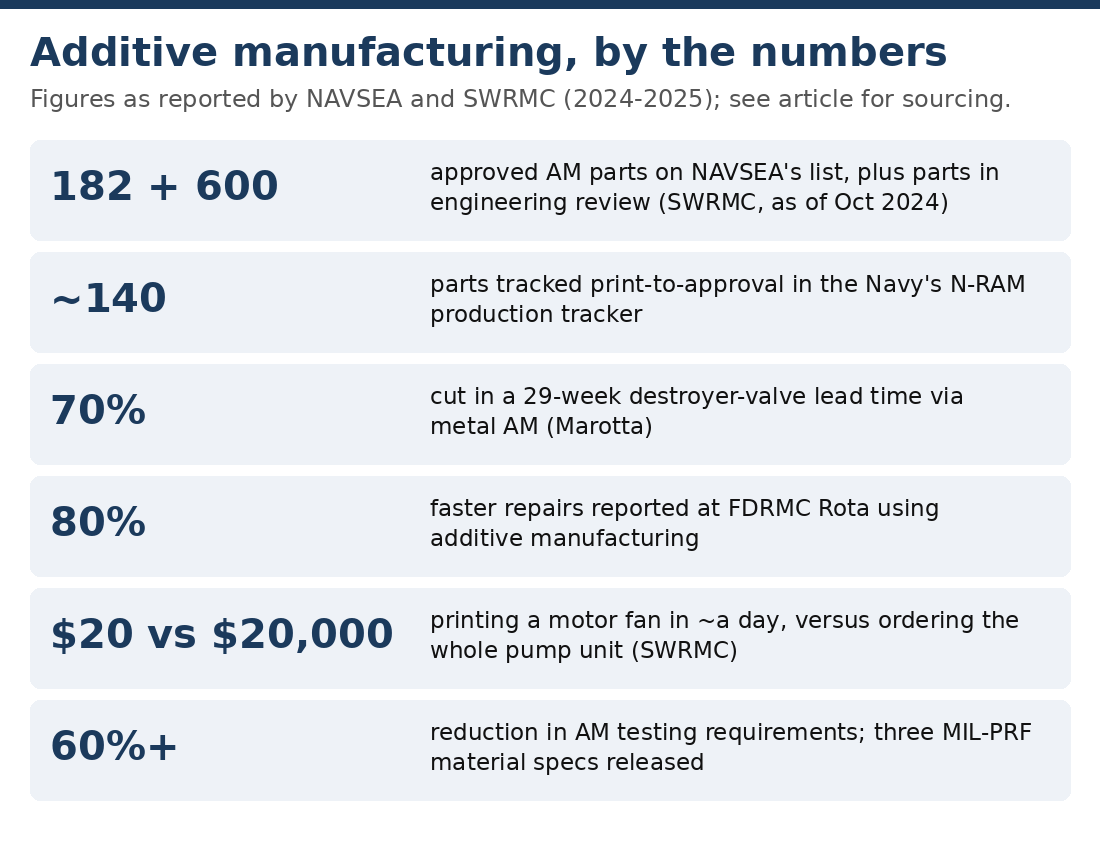
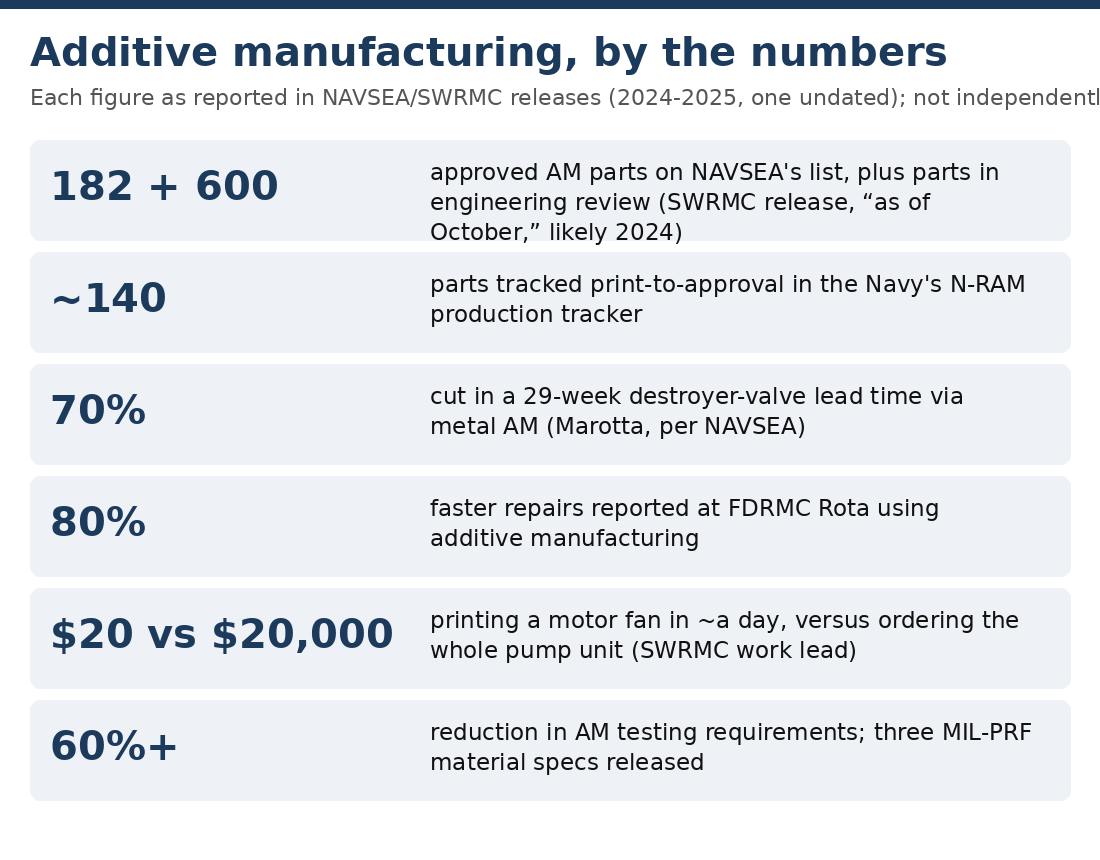
Waterfront Brief w29: exact source links + SWRMC correction

diff --git a/content/projects/waterfront-brief/2026-w29.md b/content/projects/waterfront-brief/2026-w29.md
@@ -34,7 +34,7 @@ protect when dry docks are the constraint.
 **Bottom line:** Watch Rosyth as a cadence benchmark: the win is not one docking, it is
 the same yard turning the same class on schedule, four times running.
 
-*Sources: [Babcock via Naval News, Apr 2026](https://www.navalnews.com/)*
+*Sources: [Babcock via Naval News, Apr 2026](https://www.navalnews.com/naval-news/2026/04/babcock-completes-major-maintenance-programme-supporting-uk-carrier-capability/)*
 
 ### New dock in the Indian Ocean, first customer: a navy
 
@@ -52,7 +52,7 @@ the western Pacific.
 **Bottom line:** Forward dock capacity does not have to mean a decade of MILCON; a
 refurbished floating dock with a committed naval customer stood up in two years.
 
-*Sources: [Drydock Magazine, Apr 2026](https://drydockmagazine.com/)*
+*Sources: [Drydock Magazine, Apr 2026](https://drydockmagazine.com/reunion-islands-new-ship-repair-capability/)*
 
 ### SIOP's waterfront push: what the money is buying
 
@@ -71,7 +71,7 @@ transferable planning products, and a real basis for cross-yard workload sharing
 **Bottom line:** As SIOP equipment lands, push for the cross-yard commonality benefits
 (quals, procedures, spares) rather than treating each delivery as a local upgrade.
 
-*Sources: [NAVSEA, May 2024](https://www.navsea.navy.mil/); [NAVSEA Shipyards page](https://www.navsea.navy.mil/Home/Shipyards/)*
+*Sources: [NAVSEA interview with PEO Edelson, May 2024](https://www.navsea.navy.mil/Media/News/Article-View/Article/3783726/head-of-navys-siop-effort-says-upgrading-nations-shipyards-for-the-future-will/); [NAVSEA Shipyards page](https://www.navsea.navy.mil/Home/Shipyards/)*
 
 ### Commercial pace note
 
@@ -84,7 +84,7 @@ capital ones.
 **Bottom line:** The 14-versus-18-day redelivery is a process story worth stealing even
 where the capital plant can't be copied.
 
-*Sources: [Drydock Magazine, Nov 2025](https://drydockmagazine.com/)*
+*Sources: [Drydock Magazine, Nov 2025](https://drydockmagazine.com/ship-repair-performance-in-the-middle-east/)*
 
 ## Maintenance Engineering & Technologies
 
@@ -101,8 +101,9 @@ cutting some repair times by 80 percent; NAVSEA also reports a collaboration wit
 academia cut additive testing requirements by more than 60 percent, with three
 material specifications released (MIL-PRF-32802, -32803, -32804).
 
-![Diagram: additive manufacturing by the numbers. 182 approved parts on NAVSEA's list plus 600 in engineering review (SWRMC, as of October 2024). About 140 parts tracked print-to-approval in the Navy's N-RAM production tracker. A 70 percent cut in a 29-week destroyer valve lead time via metal AM (Marotta). 80 percent faster repairs reported at FDRMC Rota. Twenty dollars to print a motor fan versus twenty thousand dollars to order the whole pump unit (SWRMC). Over 60 percent reduction in AM testing requirements, with three MIL-PRF material specs released.](img/am-by-the-numbers.png)
-*Diagram: the additive pipeline in six reported figures (NAVSEA and SWRMC, 2024-2025).*
+![Diagram: additive manufacturing by the numbers. 182 approved parts on NAVSEA's list plus 600 in engineering review (per an undated SWRMC release, "as of October," likely 2024). About 140 parts tracked print-to-approval in the Navy's N-RAM production tracker. A 70 percent cut in a 29-week destroyer valve lead time via metal AM (Marotta). 80 percent faster repairs reported at FDRMC Rota. Twenty dollars to print a motor fan versus twenty thousand dollars to order the whole pump unit (SWRMC). Over 60 percent reduction in AM testing requirements, with three MIL-PRF material specs released.](img/am-by-the-numbers.png)
+*Diagram: the additive pipeline in six figures, each as reported in NAVSEA and SWRMC
+releases (2024-2025, one undated), none independently audited.*
 
 Assessment: the strategic change is not any single part, it is that parts are now moving
 through an approval system with specs, trackers, and a supply-system endpoint. The
@@ -114,7 +115,7 @@ components, where a print becomes the alternate procurement path of record.
 **Bottom line:** Stop evaluating AM part by part; the management question for 2026 is
 whether your shop's candidates are in the approval pipeline at all.
 
-*Sources: [NAVSEA 2025 review](https://www.navsea.navy.mil/); [SWRMC via NAVSEA](https://www.navsea.navy.mil/); [N-RAM via NAVSEA](https://www.navsea.navy.mil/)*
+*Sources: [NAVSEA 2025 3D-printing review](https://www.navsea.navy.mil/Media/News/Article-View/Article/4384611/navy-expands-3d-printing-to-frontline-fleet-operations-in-2025/); [SWRMC release](https://www.navsea.navy.mil/Media/News/Article-View/Article/4054421/swrmcs-additive-printing-provides-innovative-solutions-to-meet-fleet-needs/); [NAVSEA on N-RAM](https://www.navsea.navy.mil/Media/News/Article-View/Article/4368368/inside-n-ram-navys-hub-for-additive-manufacturing-information/)*
 
 ### The unglamorous infrastructure: N-RAM and the approved-parts list
 
@@ -122,18 +123,21 @@ FACT: NAVSEA describes N-RAM (Navy Resources for Additive Manufacturing) as a Sh
 hub centralizing additive specs, standards, and policy, with a production tracker
 following roughly 140 candidate parts from requirement through print and approval,
 refreshed nightly, and more than 6,000 views since launch per NAVSEA deputy director Jay
-Ong. FACT: Southwest Regional Maintenance Center reported that as of October 2024 the
-NAVSEA approved-parts list held 182 items with about 600 more in engineering review, that
-it now prints metal parts weighing over a ton, and that printing a motor fan costs
-roughly $20 and a day versus up to $20,000 to order the parent pump unit. Assessment:
-this is what maturation actually looks like: a boring hub, a tracker, and a review queue.
-The 600-in-review number is the one to watch; if it converts at any reasonable rate, the
-approved list triples.
+Ong. FACT: an undated Southwest Regional Maintenance Center release (its internal references
+point to late 2024) says that "as of October" the NAVSEA approved-parts list held 182
+items with about 600 more in engineering review, that its newest equipment "allows for"
+printing metal parts weighing over a ton, and quotes its AM work lead putting a printed
+motor fan at roughly $20 and a day versus up to $20,000 to order the parent pump unit.
+Assessment: read those as the command's own claims in its own release: the over-a-ton
+line is a machine-capability statement, not a delivered-part count, and none of the
+figures are independently audited. Even discounted, the shape holds: a hub, a tracker,
+and a review queue is what maturation actually looks like, and the 600-in-review number
+is the one to watch.
 
 **Bottom line:** Have your engineering department check the N-RAM tracker before starting
 any local AM effort; duplicate candidates waste review capacity the queue can't spare.
 
-*Sources: [NAVSEA on N-RAM](https://www.navsea.navy.mil/); [SWRMC via NAVSEA, 2024](https://www.navsea.navy.mil/)*
+*Sources: [NAVSEA on N-RAM](https://www.navsea.navy.mil/Media/News/Article-View/Article/4368368/inside-n-ram-navys-hub-for-additive-manufacturing-information/); [SWRMC release](https://www.navsea.navy.mil/Media/News/Article-View/Article/4054421/swrmcs-additive-printing-provides-innovative-solutions-to-meet-fleet-needs/)*
 
 ### Discovery Team: 90,000 man-days sitting on the table
 
@@ -151,7 +155,7 @@ savings.
 **Bottom line:** If your yard has a standing irritant requirement, the Discovery Team
 channel now exists precisely for it; the queue rewards specific, costed submissions.
 
-*Sources: [NAVSEA, spring 2026](https://www.navsea.navy.mil/)*
+*Sources: [NAVSEA Discovery Team update, spring 2026](https://www.navsea.navy.mil/Media/News/Article-View/Article/4502829/navsea-discovery-team-advances-shipyard-maintenance-innovation/)*
 
 ### Commercial retrofit watch: shaft generators earning their keep
 
@@ -172,7 +176,7 @@ same economics.
 dockings; the commercial side is normalizing it at the 10-percent-savings scale, per
 vendor-reported trials.
 
-*Sources: [The Maritime Executive](https://www.maritime-executive.com/) (incl. two Berg vendor releases, so labeled)*
+*Sources: [Maersk-Seaspan program](https://maritime-executive.com/article/maersk-and-seaspan-launch-vessel-upgrade-program-to-improve-efficiency); Berg vendor releases via The Maritime Executive ([CMA CGM feeder](https://maritime-executive.com/corporate/berg-propulsion-contributes-to-substantial-efficiency-gains-for-cma-cgm), [Chemfleet](https://maritime-executive.com/corporate/chemfleet-adds-three-ships-to-berg-energy-efficiency-upgrade))*
 
 ### Research radar: ending the switchboard open-door inspection
 
@@ -195,7 +199,7 @@ shop (results paywalled, so no numbers claimed here).
 open-door switchboard inspections become the next maintenance requirement worth
 challenging through the Discovery Team.
 
-*Sources: [NSRP RA 2025-04 briefing](https://www.nsrp.org/); [arXiv 2408.04677](https://arxiv.org/abs/2408.04677); [arXiv 2408.04827](https://arxiv.org/abs/2408.04827); [Computers & Operations Research, 2025](https://www.sciencedirect.com/)*
+*Sources: [NSRP RA 2025-04 briefing (PDF)](https://www.nsrp.org/wp-content/uploads/2025/03/03-RSL_RA-2025-04_DTS_Install_NSRP_All-Panels.2025.02.12.pdf); [arXiv 2408.04677](https://arxiv.org/abs/2408.04677); [arXiv 2408.04827](https://arxiv.org/abs/2408.04827); [Computers & Operations Research, 2025](https://www.sciencedirect.com/science/article/abs/pii/S0305054825001789)*
 
 ## Operations Maintenance & Readiness
 
@@ -241,7 +245,7 @@ answer with "no."
 Pacific schedulers should model Korean-yard availability windows as real capacity with
 a policy asterisk.
 
-*Sources: [Hanwha Ocean via Naval News, Nov 2025](https://www.navalnews.com/)*
+*Sources: [Hanwha Ocean via Naval News, Nov 2025](https://www.navalnews.com/naval-news/2025/11/u-s-navy-cno-visits-hanwha-ocean-shipyard/)*
 
 ### The backlog, honestly framed
 
@@ -262,7 +266,7 @@ people are, and both have decade-long lead times.
 appropriated dollars have not been the limiting factor for five straight years of
 reporting.
 
-*Sources: [USNI News, May 2024](https://news.usni.org/); [GAO-25-106990](https://www.gao.gov/products/gao-25-106990); [USNI News on CBO, 2021](https://news.usni.org/)*
+*Sources: [USNI News, May 2024](https://news.usni.org/2024/05/07/gao-tells-senate-panel-u-s-shipyards-are-major-readiness-concern); [GAO-25-106990](https://www.gao.gov/products/gao-25-106990); [USNI News on CBO, Mar 2021](https://news.usni.org/2021/03/26/cbo-navy-still-needs-bigger-workforce-to-dig-out-of-submarine-maintenance-backlog)*
 
 ## Business Practices & Strategy
 
@@ -322,7 +326,7 @@ maintenance planning, on the same timeline as SIOP's own dock work.
 **Bottom line:** Put Henderson's graving dock on the same mental map as SIOP dock
 projects; by the early 2030s Pacific submarine availability planning will count both.
 
-*Sources: [Naval News, Apr 2026](https://www.navalnews.com/)*
+*Sources: [Naval News, Apr 2026](https://www.navalnews.com/naval-news/2026/04/australian-defence-strategy-spends-big-on-submarines-frigates/)*
 
 ### SIOP's money lesson, still compounding
 
